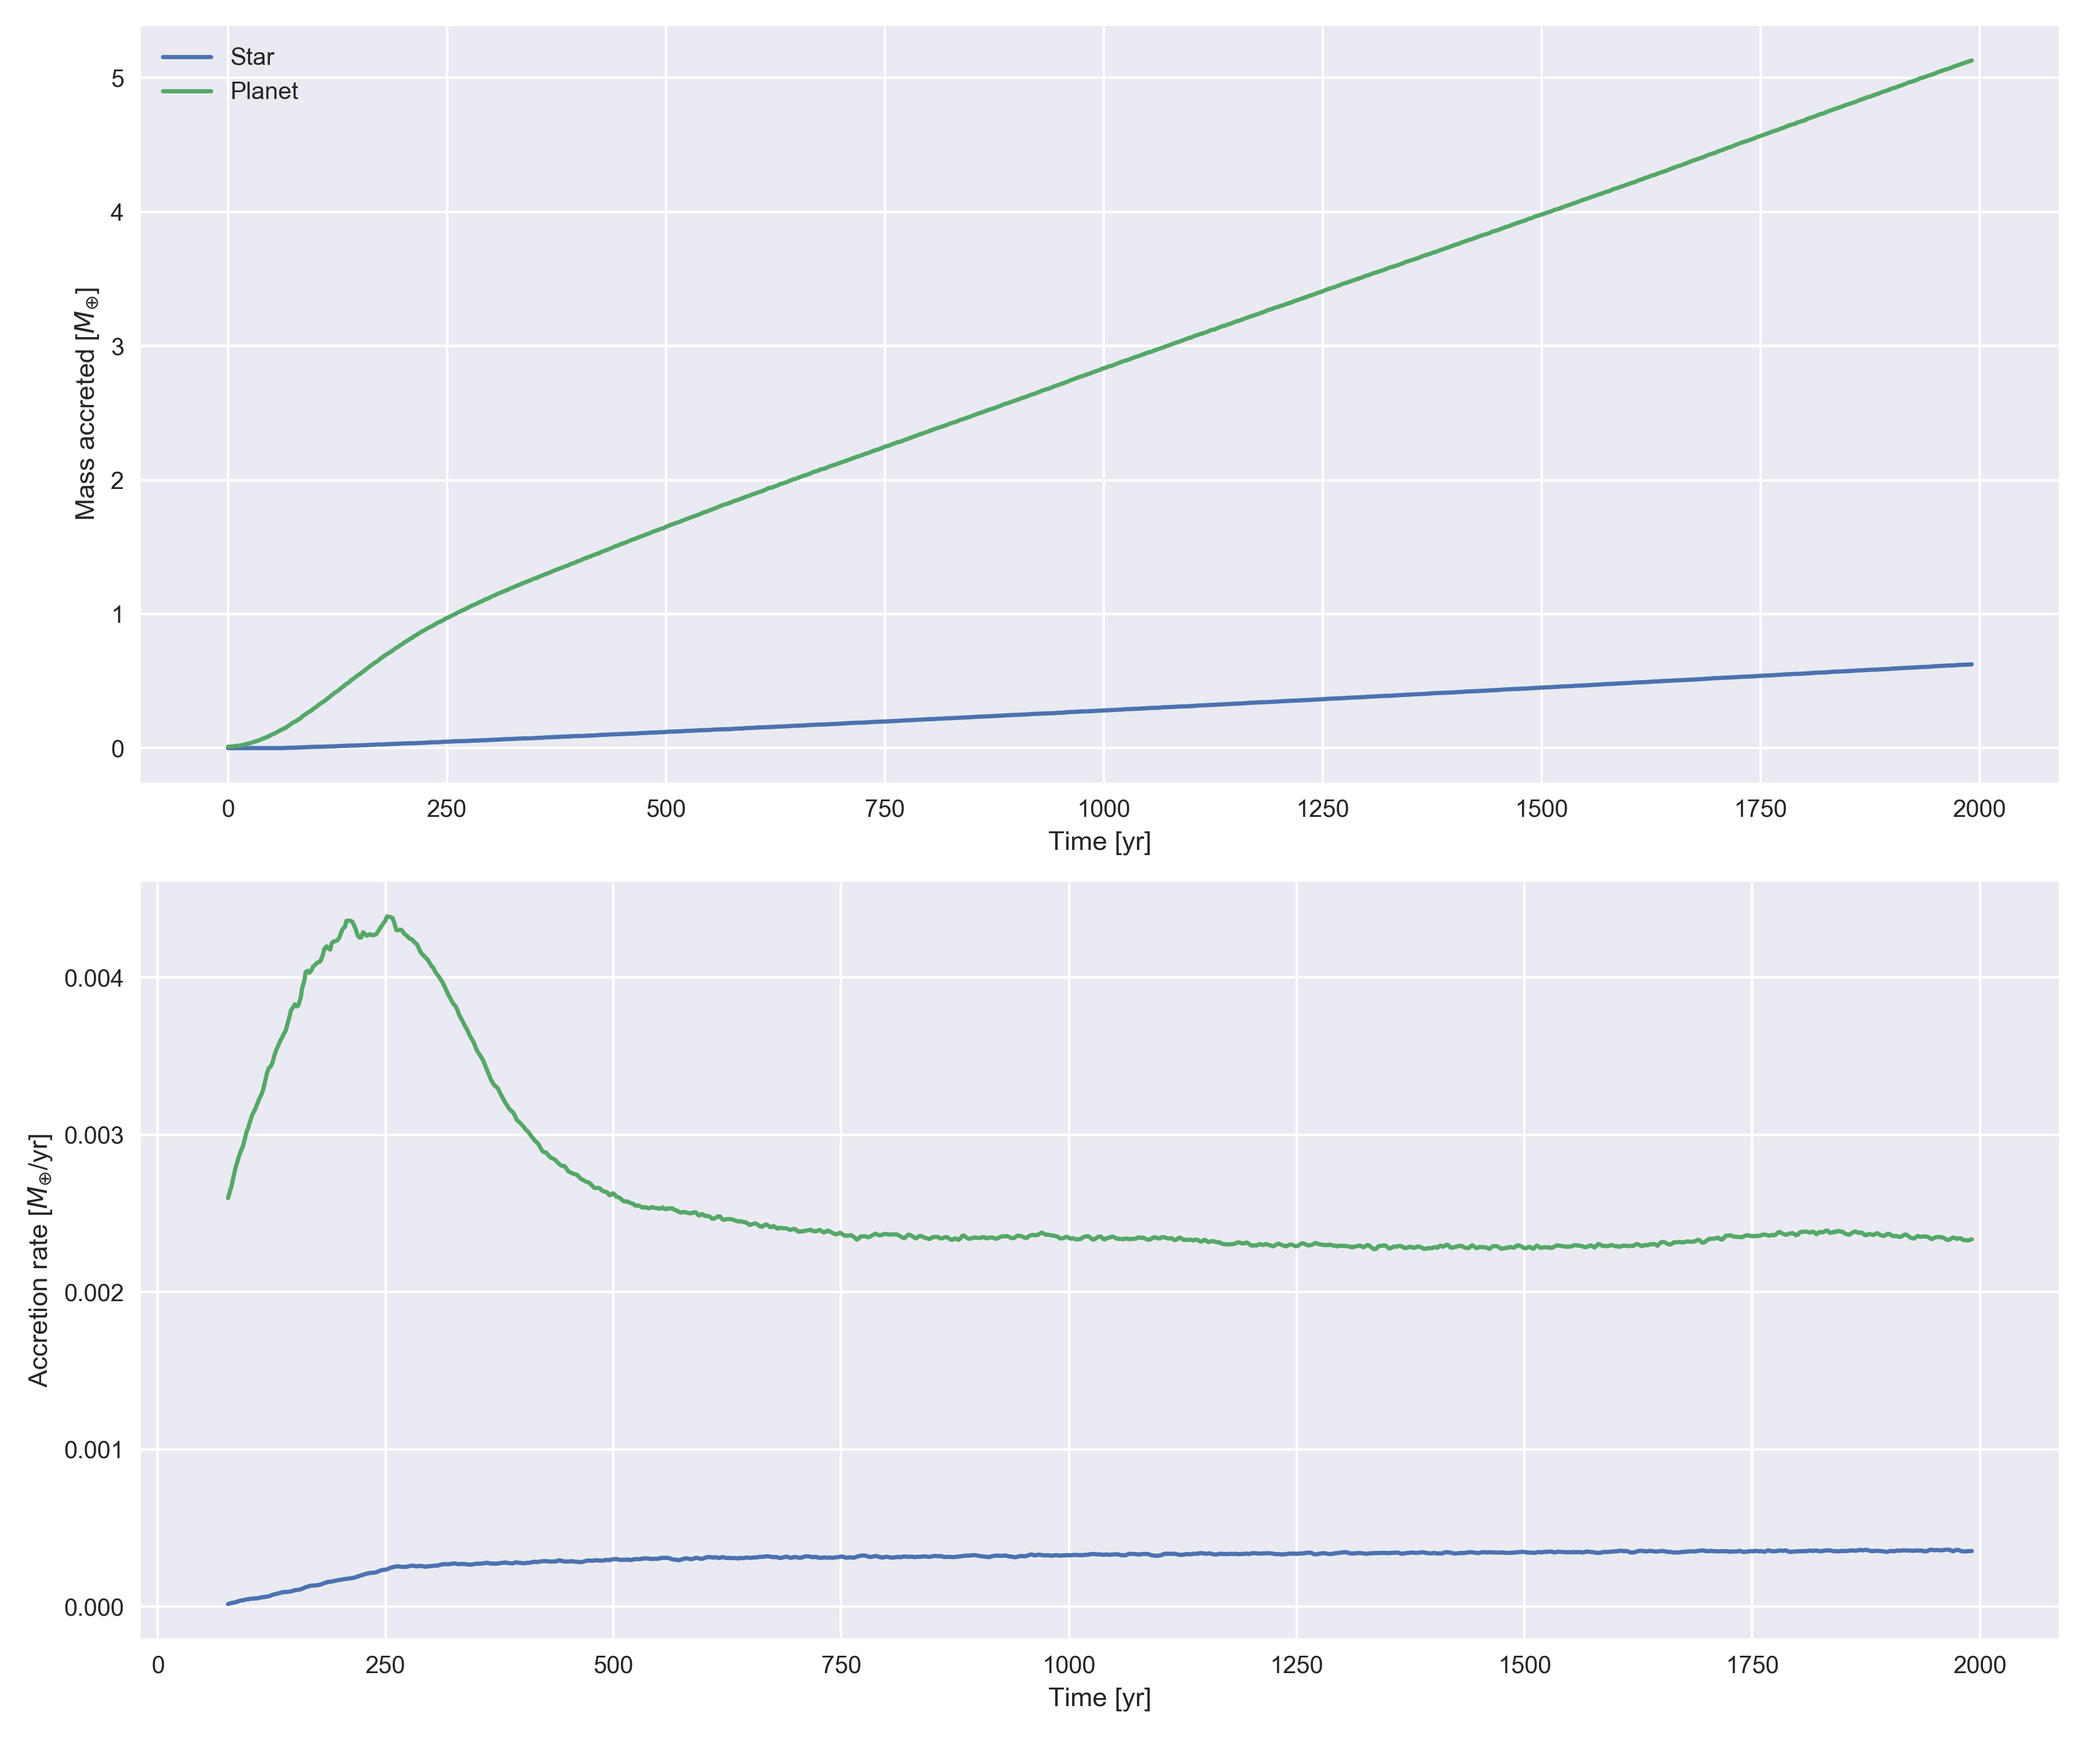
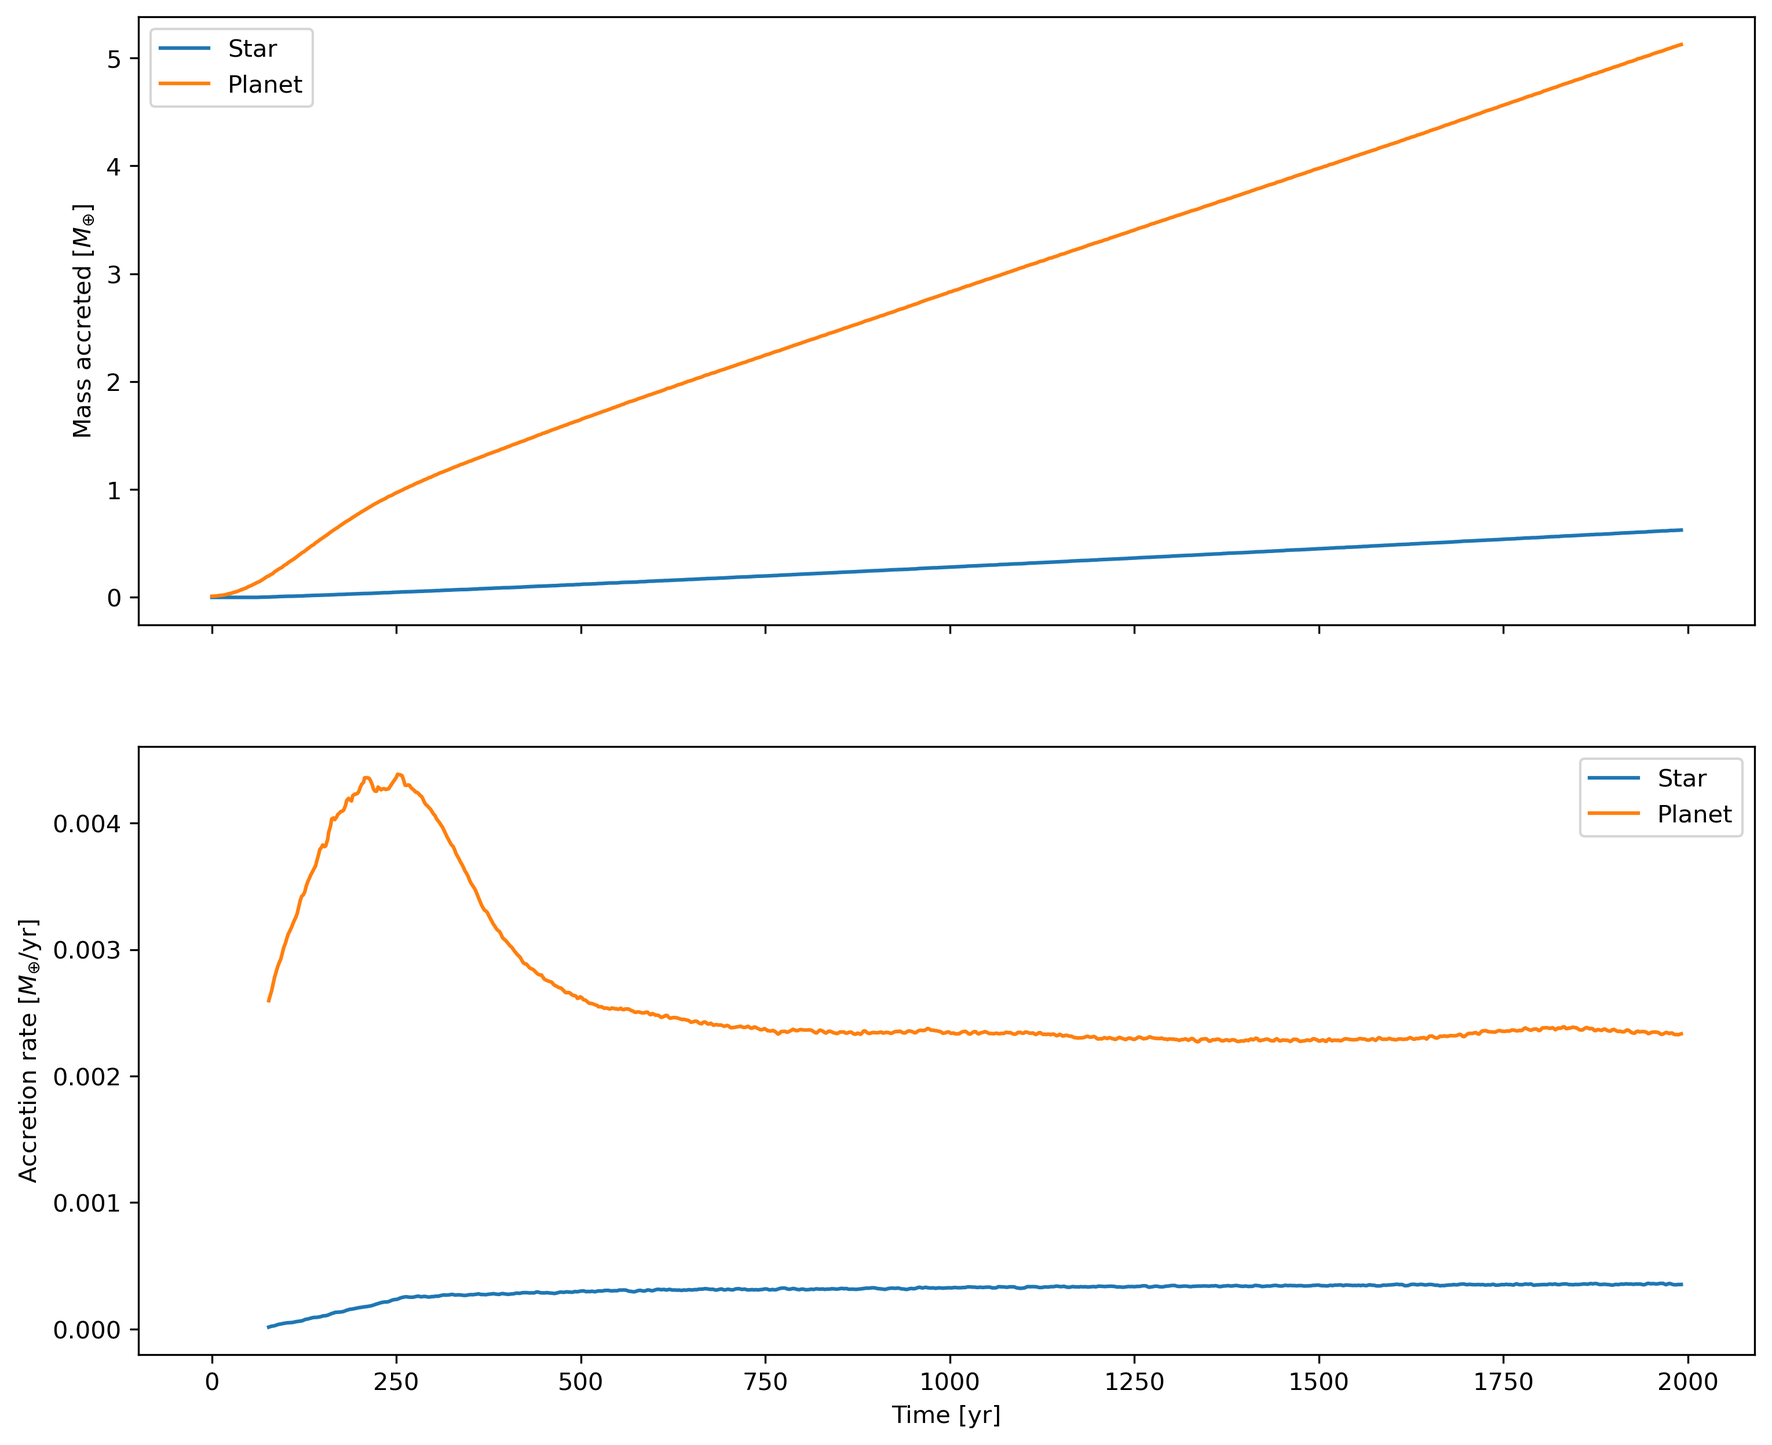
Update docs

diff --git a/plonk/analysis/profile.py b/plonk/analysis/profile.py
@@ -379,6 +379,7 @@ class Profile:
         units: Dict[str, Union[str, List[str]]] = None,
         std_dev_shading: bool = False,
         ax: Any = None,
+        ax_kwargs={},
         **kwargs,
     ):
         """Plot profile.
@@ -399,6 +400,8 @@ class Profile:
             Add shading for standard deviation of profile.
         ax : optional
             A matplotlib Axes object to plot to.
+        ax_kwargs
+            Keyword arguments to pass to matplotlib Axes.
         **kwargs
             Keyword arguments to pass to Axes plot method.
 
@@ -473,6 +476,7 @@ class Profile:
                 )
 
         ax.legend()
+        ax.set(**ax_kwargs)
 
         return ax
 

diff --git a/docs/source/examples/vertical-profile-disc.rst b/docs/source/examples/vertical-profile-disc.rst
@@ -56,27 +56,38 @@ radii in a disc.
             n_bins=50,
         )
 
-        # Plot density and temperature
+        # Plot density
+        ax_kwargs = {
+            'xlabel': 'Altitude',
+            'ylabel': f'Density [{units["density"]}]',
+            'yscale': 'log',
+        }
         prof.plot(
             x='z',
             y='density',
             units=units,
             std_dev_shading=True,
             label=f'{R:~P}',
+            ax_kwargs=ax_kwargs,
             ax=axs[0],
         )
+
+        # Plot temperature
+        ax_kwargs = {
+            'xlabel': 'Altitude',
+            'ylabel': f'Temperature [{units["temperature"]}]',
+            'yscale': 'linear'
+        }
         prof.plot(
             x='z',
             y='temperature',
             units=units,
             std_dev_shading=True,
             label=f'{R:~P}',
+            ax_kwargs=ax_kwargs,
             ax=axs[1],
         )
 
-    axs[0].grid(True)
-    axs[1].grid(True)
-    axs[0].set_yscale('log')
     axs[0].legend(title='Radius', loc='upper right')
     axs[1].legend().remove()
     plt.show()

diff --git a/docs/source/examples/dust-profiles.rst b/docs/source/examples/dust-profiles.rst
@@ -22,8 +22,7 @@ Plot the dust density profile per species.
     y = [f'dust_density_{n+1:03}' for n in range(snap.num_dust_species)]
 
     units = {'position': 'au', 'dust_density': 'g/cm^3'}
-    ax = prof.plot(x='radius', y=y, units=units)
-    ax.set_yscale('log')
+    ax = prof.plot(x='radius', y=y, units=units, ax_kwargs={'yscale': 'log'})
 
 .. figure:: ../_static/dust_profiles.png
 

diff --git a/docs/source/examples/accretion-onto-sinks.rst b/docs/source/examples/accretion-onto-sinks.rst
@@ -10,9 +10,6 @@ Plot mass accretion and accretion rate onto sink particles.
     import numpy as np
     import plonk
 
-    # Set Seaborn plot style
-    plt.style.use('seaborn')
-
     # Load simulation
     sim = plonk.load_sim(prefix='disc')
     sink_labels = ('Star', 'Planet')

diff --git a/docs/source/examples/density-profiles.rst b/docs/source/examples/density-profiles.rst
@@ -10,8 +10,6 @@ Plot a density profile for multiple snapshots.
     import numpy as np
     import plonk
 
-    plt.style.use('ggplot')
-
     # Load simulation
     sim = plonk.load_sim(prefix='disc')
 

diff --git a/docs/source/examples/cross-section.rst b/docs/source/examples/cross-section.rst
@@ -17,8 +17,8 @@ Plot cross section at z=0.
         x='x',
         y='z',
         interp='slice',
-        cmap='gist_heat',
         units=units,
+        cmap='gist_heat',
     )
     plt.show()
 
